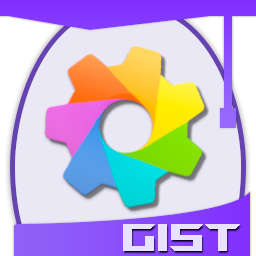
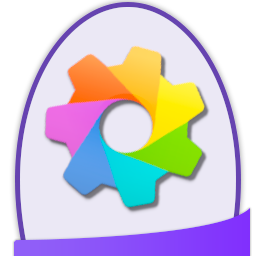
2.0.2 - Adjustments, some adaptation to modern UI (still experimental)

Changed region(s): [[0.0, 0.0, 1.0, 1.0]]

diff --git a/README.md b/README.md
@@ -13,8 +13,8 @@ Syntax highlighting follows the concept of temperature/stability:<br />
 
 <br />
 
-[![](images/theme_1.png)](https://github.com/n-gist/vscode-gist-theme/raw/HEAD/images/theme_1.png)
+[![](images/theme_1.png)](https://github.com/n-gist/vscode.gist-theme/raw/HEAD/images/theme_1.png)
 
 <br />
 
-[![](images/theme_2.png)](https://github.com/n-gist/vscode-gist-theme/raw/HEAD/images/theme_2.png)
+[![](images/theme_2.png)](https://github.com/n-gist/vscode.gist-theme/raw/HEAD/images/theme_2.png)

diff --git a/CHANGELOG.md b/CHANGELOG.md
@@ -1,3 +1,5 @@
+## [2.0.2]
+- Adjustments, some adaptation to modern UI (still experimental)
 ## [2.0.1]
 - Extension page adjustments
 ## [2.0.0]
